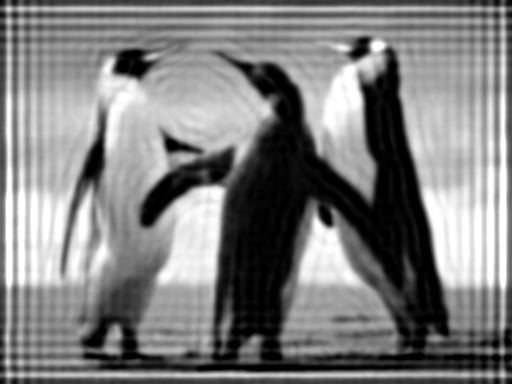
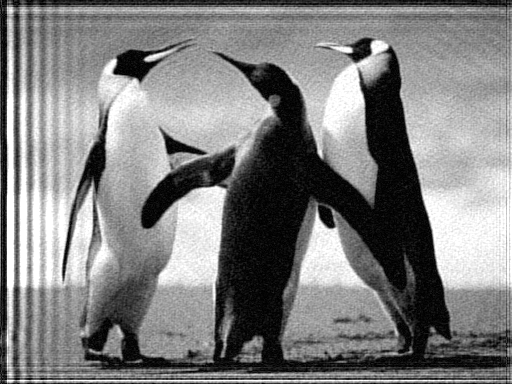
coded apertures results

diff --git a/lab2/deblurring_demo.m b/lab2/deblurring_demo.m
@@ -1,10 +1,10 @@
 % Read data
-aperture = imread('apertures/circular.bmp');
+aperture = imread('apertures/zhou.bmp');
 image = imread('images/penguins.jpg');
 image = image(:, :, 1);
 
 % Noise level (Gaussian noise)
-sigma = 0.05;
+sigma = 0.005;
 
 % Blur size
 blurSize = 7; %7
@@ -36,9 +36,9 @@ for sigma = [0.5, 0.05, 0.005]
      
 
         % Recover
-        % f0_hat = zDeconvWNR(f1, k1, C);
+        f0_hat = zDeconvWNR(f1, k1, C);
         % f0_hat = deconvlucy(f1,k1, it);
-        f0_hat = deconvwnr(f1,k1, C);
+        % f0_hat = deconvwnr(f1,k1, C);
         imwrite(f0_hat, filename);
         
     end
@@ -48,8 +48,8 @@ end
 f1 = zDefocused(f0, k1, sigma, 0);
 
 % Recover
-% f0_hat = zDeconvWNR(f1, k1, C);
-f0_hat = deconvlucy(f1,k1);
+f0_hat = zDeconvWNR(f1, k1, C);
+% f0_hat = deconvlucy(f1,k1);
 
 % Display results
 figure;
